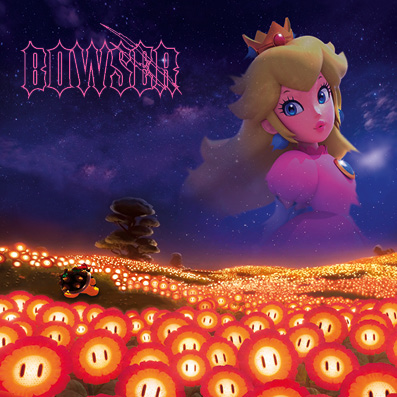
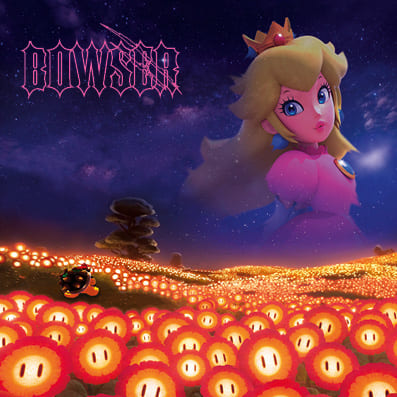
compressing images for a better loading

diff --git a/pepe.js b/pepe.js
@@ -3,25 +3,25 @@ let productions = [
         name : "Booklet",
         description : "I created a booklet for an association supporting children with disabilities and/or illnesses, working directly with the president of Luce&All. She provided the text, images, and key elements she wanted included. I then designed the booklet in Figma based on her brief, while adding some of my own creative ideas.",
         logiciel : "Figma",
-        images : ["Images - PepeStudio/pagederriere.jpg","Images - PepeStudio/pageavantprincipaleversionfinale.jpg","Images - PepeStudio/unnamed.jpg"],
+        images : ["Images - PepeStudio/pagederriere.webp","Images - PepeStudio/unnamed.webp"],
     },
     {
         name : "Interface design",
         description : "For an emailing project, I designed a new interface for the company's website, based on its visual identity. I used Figma and really enjoyed imagining how the layout and components would look. I also used free assets from Freepik for illustrations.",
         logiciel : "Figma",
-        images : ["Images - PepeStudio/ikykyukyu.png","Images - PepeStudio/tytytty.png","Images - PepeStudio/gfsfese.png"],
+        images : ["Images - PepeStudio/tytytty.webp","Images - PepeStudio/gfsfese.webp"],
     },
     {
         name : "Web Integration",
         description : "To help maintain the website, I quickly learned how to do web integration. I contributed by adding text, banners, and other elements to the site, and publishing updates online.",
         logiciel : "Webflow",
-        images : ["Images - PepeStudio/integrationwebflowblog.png","Images - PepeStudio/integrationwebflowbanner.png","Images - PepeStudio/integrationwebflowavis.png"],
+        images : ["Images - PepeStudio/integrationwebflowblog.webp","Images - PepeStudio/integrationwebflowbanner.webp","Images - PepeStudio/integrationwebflowavis.webp"],
     },
     {
         name : "Graphic design",
         description : "I also created content for social media, especially for LinkedIn, following the company’s graphic guidelines. Additionally, I designed several banners using Photoshop.",
         logiciel : "Canva, Photoshop",
-        images : ["Images - PepeStudio/trtrtrt.png","Images - PepeStudio/yjtyjtyjt.jpeg","Images - PepeStudio/yutyutyu.png"],
+        images : ["Images - PepeStudio/trtrtrt.webp","Images - PepeStudio/yjtyjtyjt.webp","Images - PepeStudio/yutyutyu.png"],
     }
     
 
@@ -33,7 +33,7 @@ const gridcontainer = document.createElement("div");
 gridcontainer.classList.add("work-display");
 container.appendChild(gridcontainer);
 
-let urlSpan = "Images - mkfr/jsjsjsfks.jpg";
+let urlSpan = " ";
 
 function ProjectGrid(project)
 {

diff --git a/blender.html b/blender.html
@@ -28,15 +28,15 @@ This workshop was a great opportunity to learn a lot about 3D and gain a better 
 
     <main class="blender-grid">
         <video src="Images - blender\RenduFinaleBlender.mp4" autoplay loop muted></video>
-        <img src="Images - blender\zczecz.png"  alt=""/>
-        <img src="Images - blender\cezdcezcez.png"  alt=""/>
-        <img src="Images - blender\edzezedze.png"  alt=""/>
-        <img src="Images - blender\fveevr.png"  alt=""/>
-        <img src="Images - blender\fvidofv.png"  alt=""/>
-        <img src="Images - blender\ssdzedez.png"  alt=""/>
-        <img src="Images - blender\zedezdze.png"  alt=""/>
-        <img src="Images - blender\zedzezs.png"  alt=""/>
-        <img src="Images - blender\boxblender.png"  alt=""/>
+        <img src="Images - blender\zczecz.webp"  alt=""/>
+        <img src="Images - blender\cezdcezcez.webp"  alt=""/>
+        <img src="Images - blender\edzezedze.webp"  alt=""/>
+        <img src="Images - blender\fveevr.webp"  alt=""/>
+        <img src="Images - blender\fvidofv.webp"  alt=""/>
+        <img src="Images - blender\ssdzedez.webp"  alt=""/>
+        <img src="Images - blender\zedezdze.webp"  alt=""/>
+        <img src="Images - blender\zedzezs.webp"  alt=""/>
+        <img src="Images - blender\boxblender.webp"  alt=""/>
     </main>
 
     <footer>
